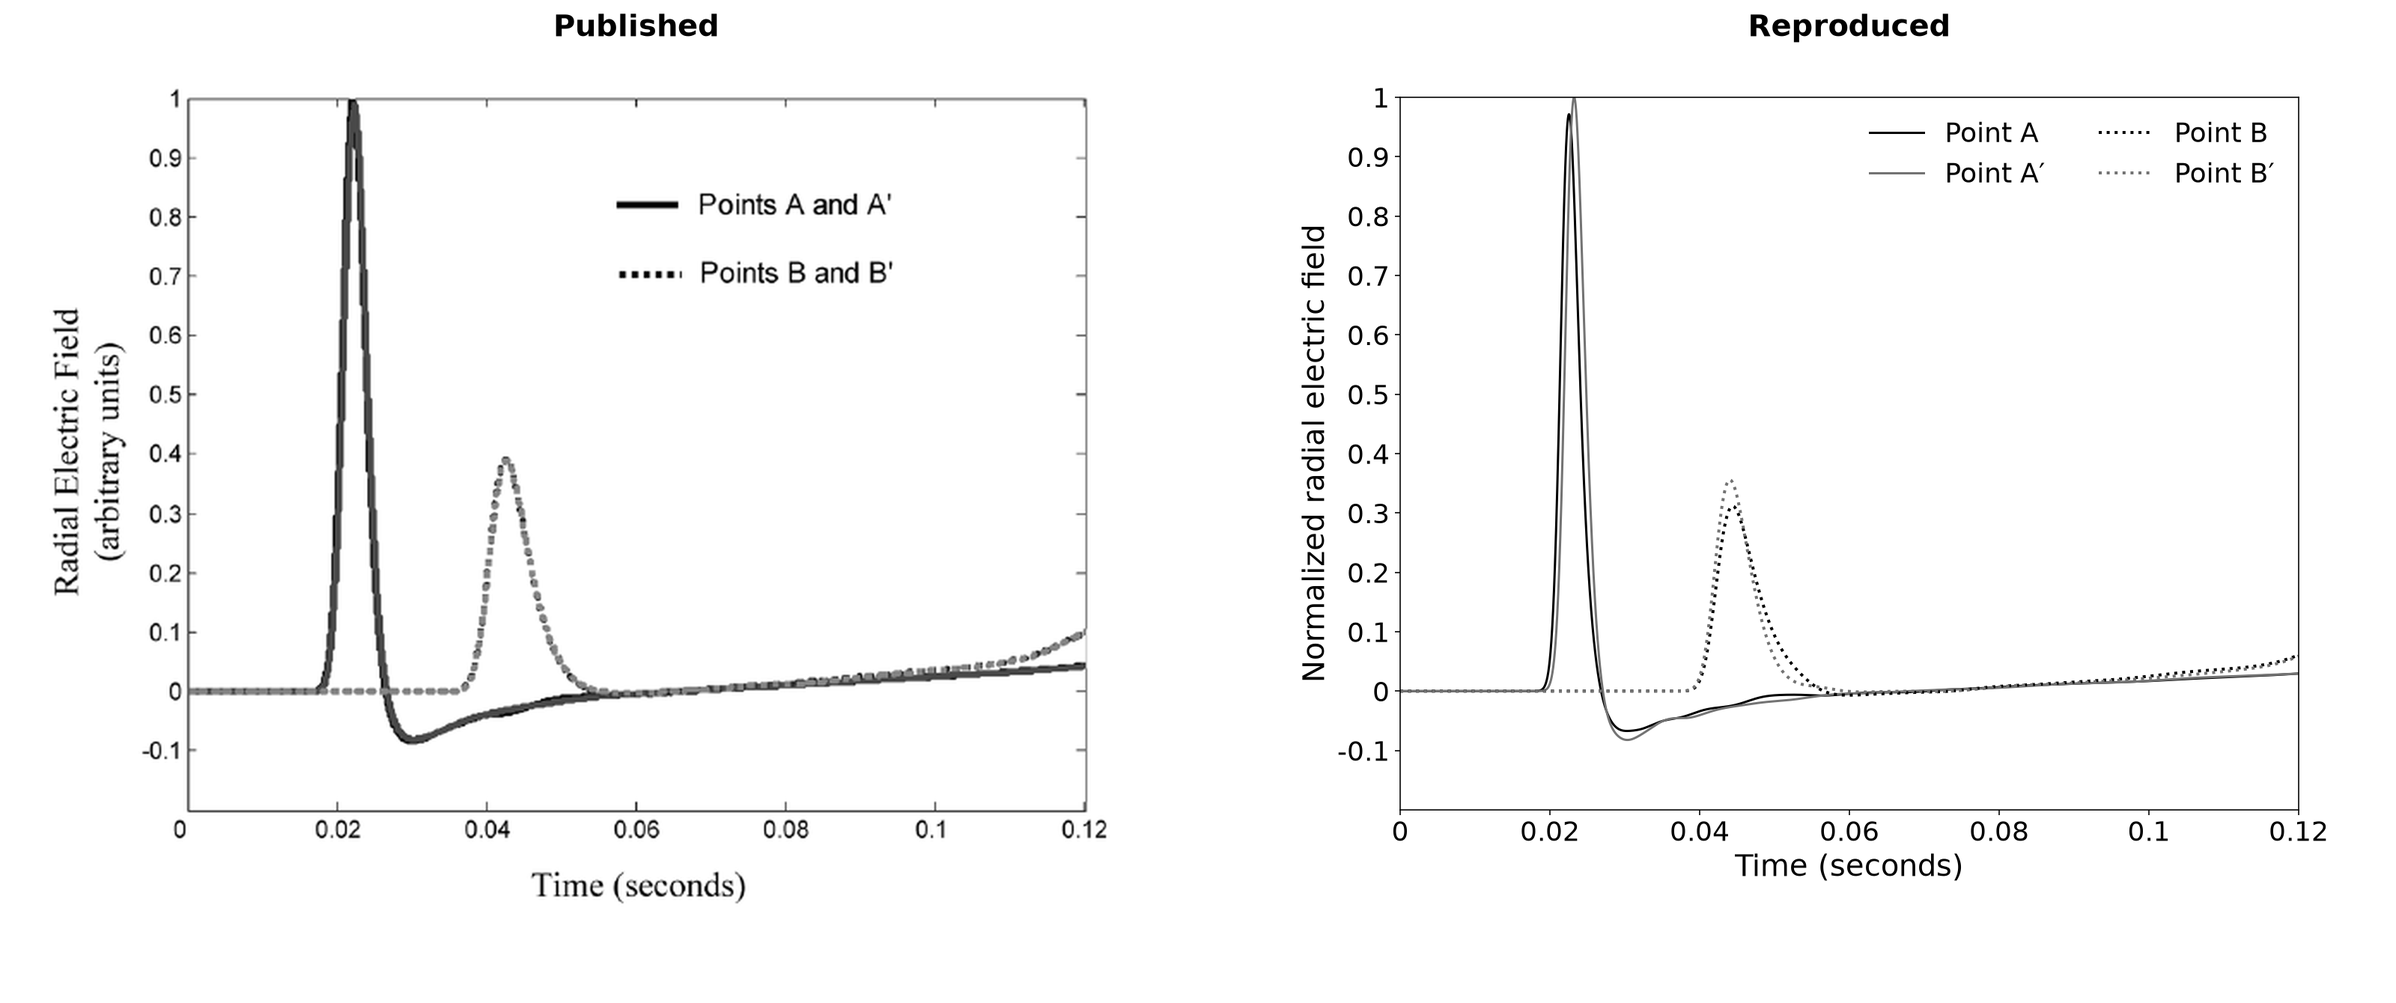
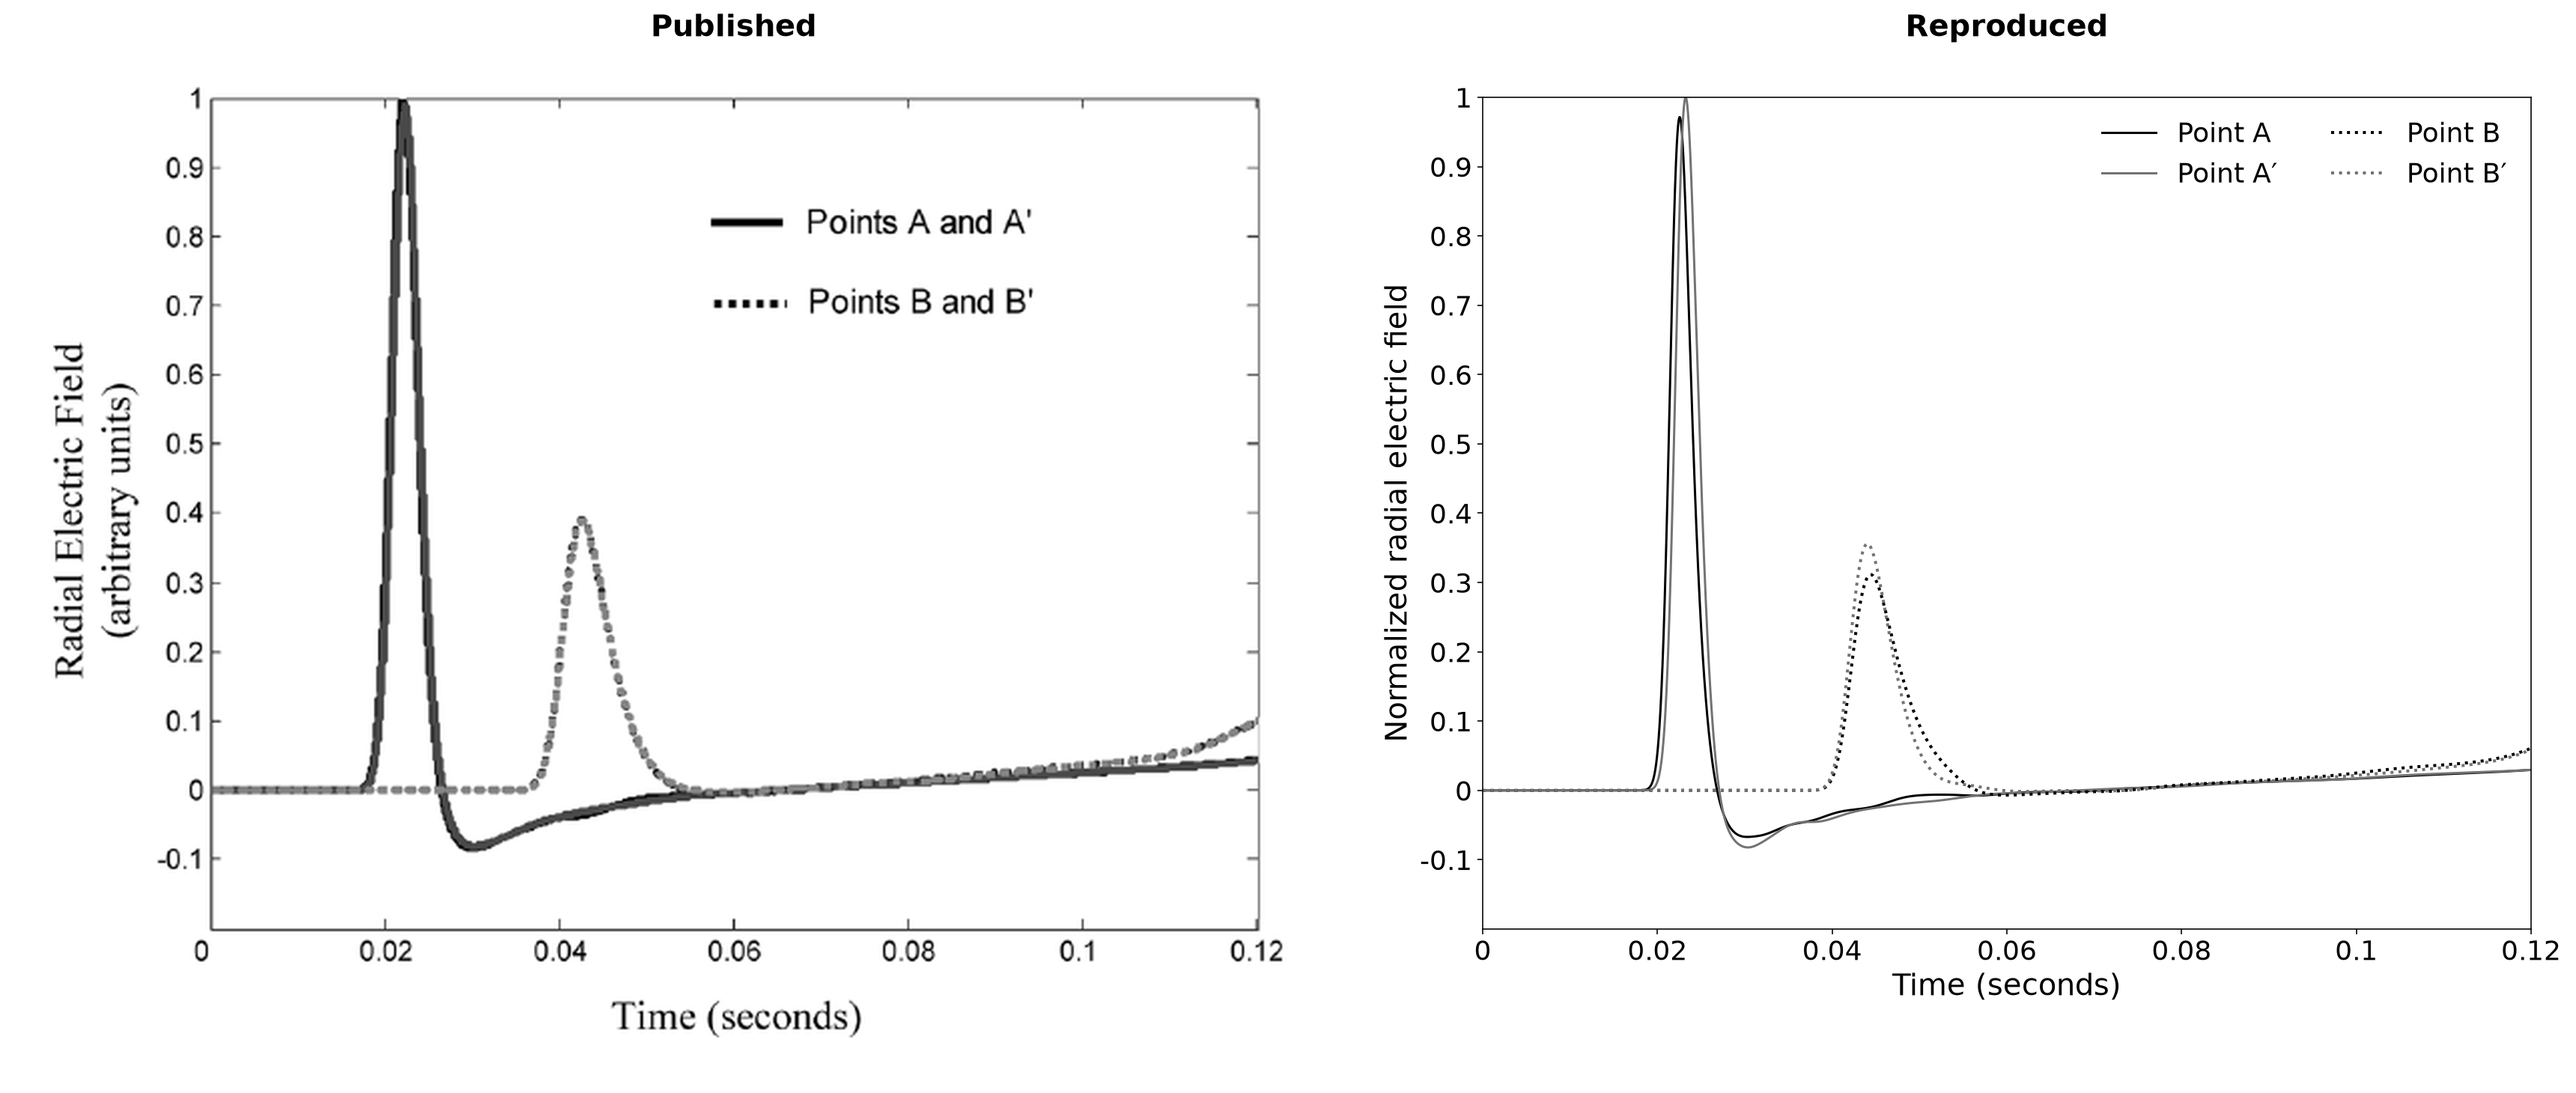
docs(verification): enlarge 2006 comparison plots
Reduce the gap between the published and reproduced data frames from 420 to 300 pixels, and enlarge both matched frames from 1200 to 1400 pixels wide. Preserve the measured paper aspect ratios, plot ranges, labels, and reproduced typography across Figures 5, 6, and 7.\n\nUpdate AGENTS.md with the new comparison geometry. Verified all panel boundaries remain visible and ran the Simpson–Taflove regression tests (34 passed).

diff --git a/AGENTS.md b/AGENTS.md
@@ -122,9 +122,10 @@ Current geometry references:
   pixel canvas, with additional inter-column spacing for the enlarged
   reproduced y-axis label. Its reproduced panel uses 20-point axis labels and
   18-point major tick labels and legend text.
-- Simpson–Taflove 2006 comparison plots use a `3200 x 1340` pixel canvas,
+- Simpson–Taflove 2006 comparison plots use a `3440 x 1460` pixel canvas,
   20-point reproduced axis labels, and 18-point reproduced major tick labels
   and legend text. Their matched published/reproduced data frames are
-  `1200 x 952` pixels for Figure 5, `1200 x 946` pixels for Figure 6, and
-  `1200 x 942` pixels for Figure 7. Measure these ratios from the original PDF
-  page crops, not from a previously composed comparison image.
+  `1400 x 1111` pixels for Figure 5, `1400 x 1104` pixels for Figure 6, and
+  `1400 x 1099` pixels for Figure 7, with a 300-pixel gap between the data
+  frames. Measure these ratios from the original PDF page crops, not from a
+  previously composed comparison image.
